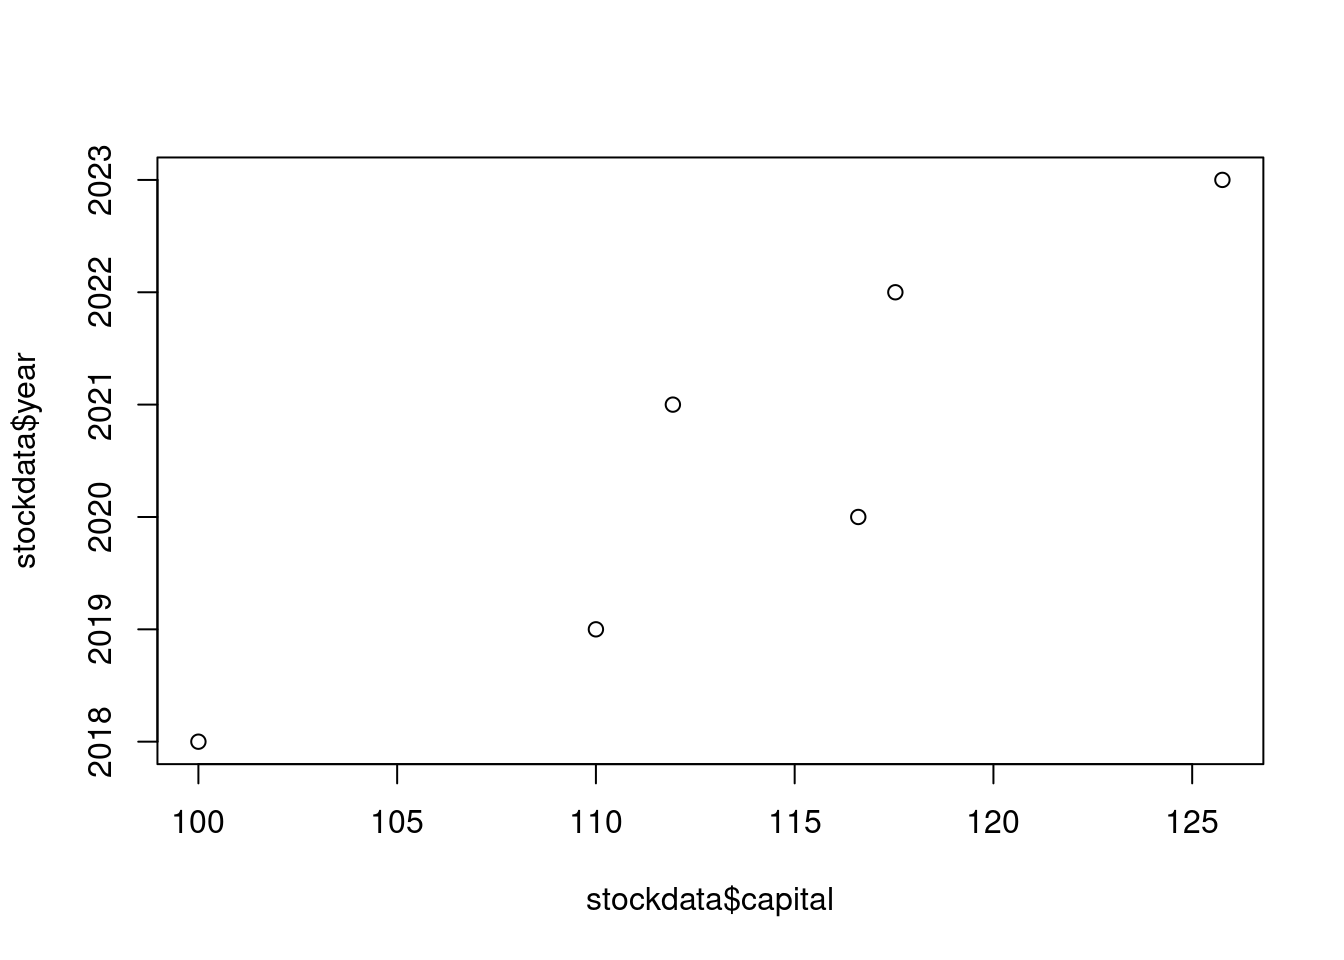
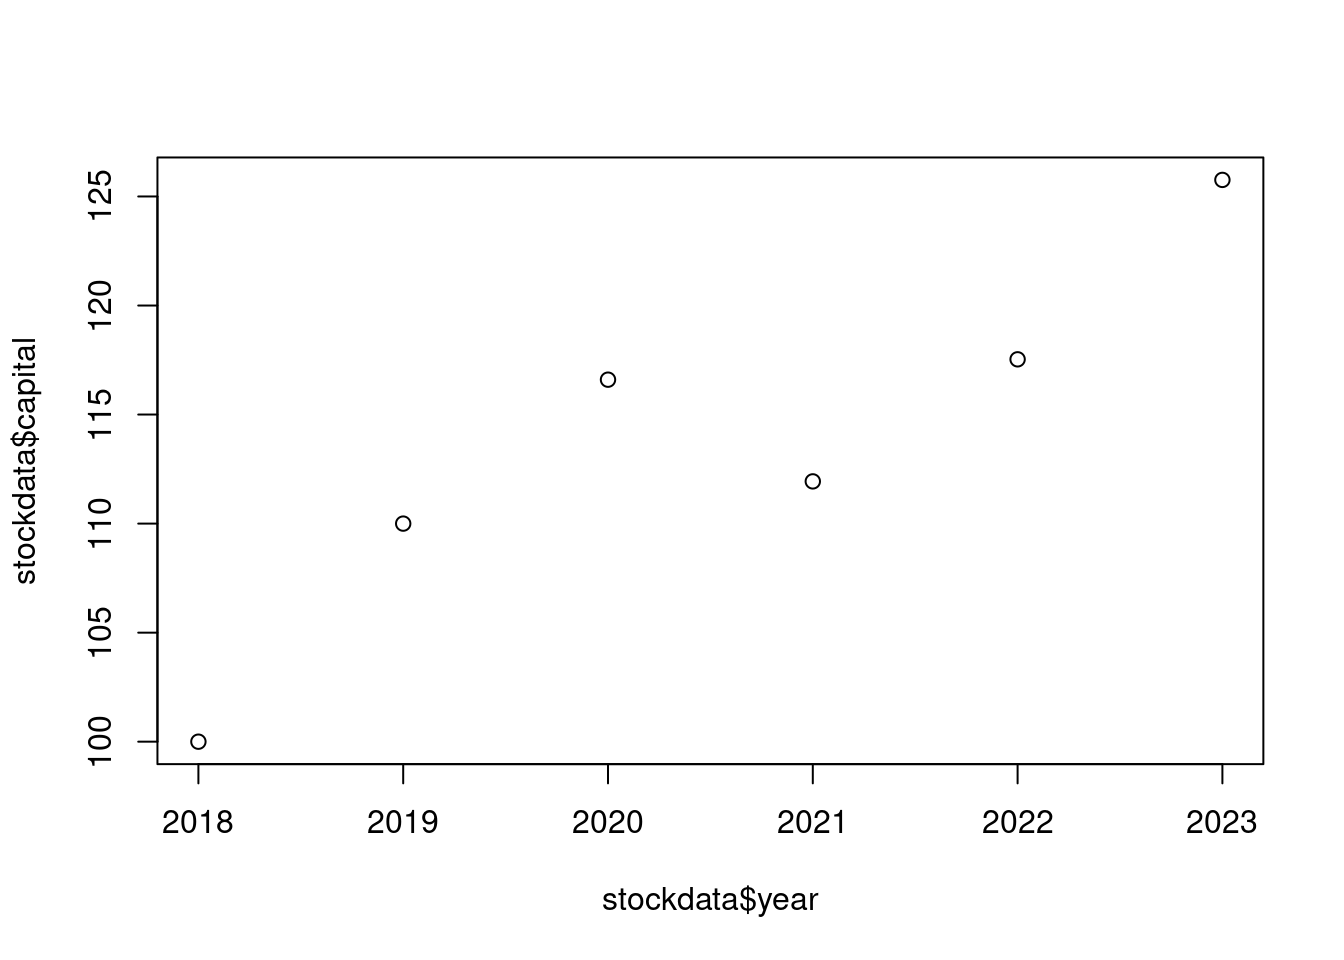
Jon's change of argument order added to docs

diff --git a/docs/datorlab/lab1/DatorLab1.html b/docs/datorlab/lab1/DatorLab1.html
@@ -690,7 +690,7 @@ läses av R som</p>
 </blockquote>
 <p>Genom att explicit plocka ut kolumner på detta sätt kan vi göra grafen med ett lite annorlunda kommando:</p>
 <div class="cell">
-<div class="sourceCode cell-code" id="cb9"><pre class="sourceCode r code-with-copy"><code class="sourceCode r"><span id="cb9-1"><a href="#cb9-1" aria-hidden="true" tabindex="-1"></a><span class="fu">plot</span>(stockdata<span class="sc">$</span>capital, stockdata<span class="sc">$</span>year)</span></code><button title="Copy to Clipboard" class="code-copy-button"><i class="bi"></i></button></pre></div>
+<div class="sourceCode cell-code" id="cb9"><pre class="sourceCode r code-with-copy"><code class="sourceCode r"><span id="cb9-1"><a href="#cb9-1" aria-hidden="true" tabindex="-1"></a><span class="fu">plot</span>(<span class="at">x =</span> stockdata<span class="sc">$</span>year, <span class="at">y =</span> stockdata<span class="sc">$</span>capital)</span></code><button title="Copy to Clipboard" class="code-copy-button"><i class="bi"></i></button></pre></div>
 <div class="cell-output-display">
 <p><img src="DatorLab1_files/figure-html/unnamed-chunk-6-1.png" class="img-fluid" width="672"></p>
 </div>
